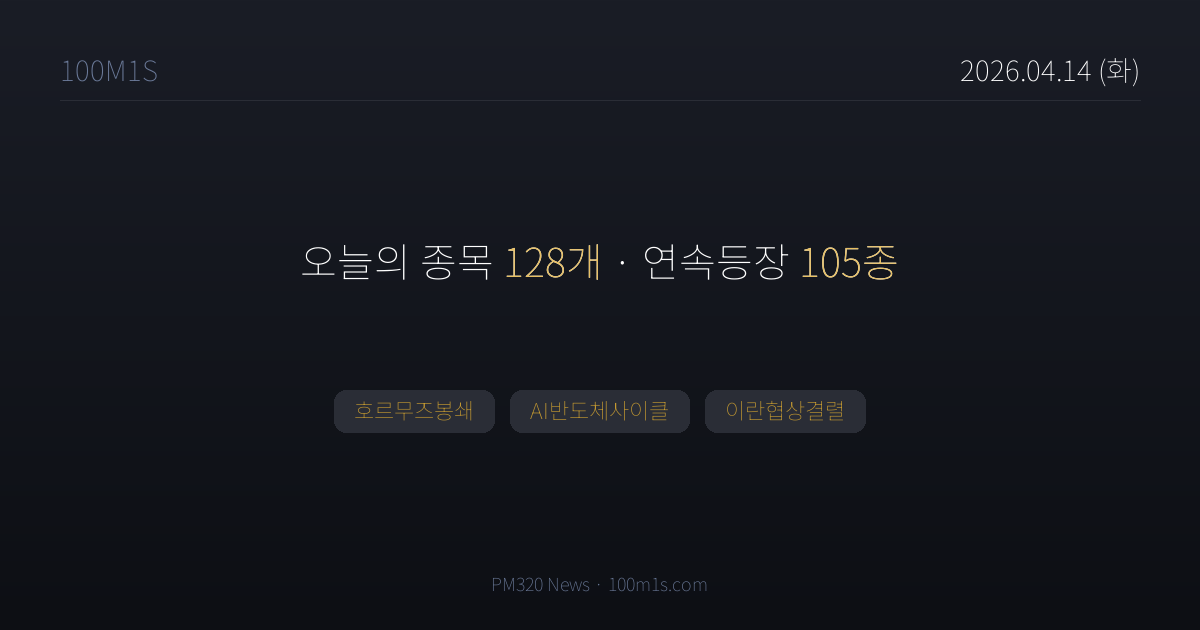
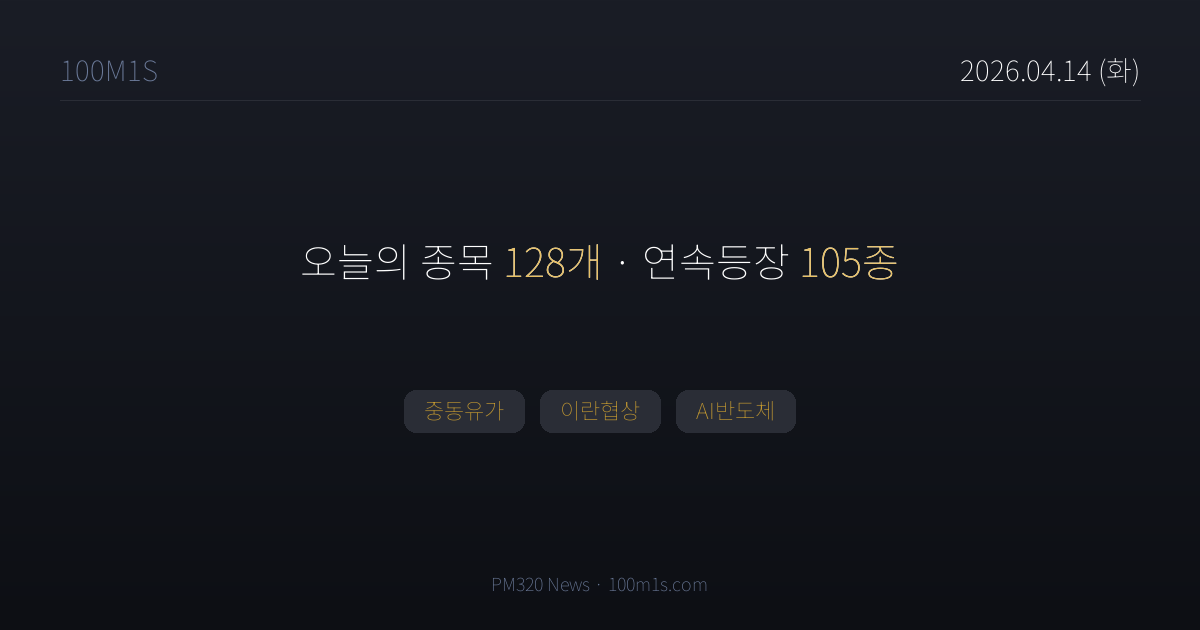
chore(news): 2026-04-14T06:55 pipeline

Changed region(s): [[0.2775, 0.6032, 0.74, 0.6937]]

diff --git a/news/2026-04-14.html b/news/2026-04-14.html
@@ -4,7 +4,7 @@
 <meta charset="UTF-8">
 <title>4월 14일 (화) 뉴스 — 100M1S</title>
 <meta property="og:title" content="4월 14일 (화) · 종목 128개">
-<meta property="og:description" content="호르무즈봉쇄, AI반도체사이클, 이란협상결렬">
+<meta property="og:description" content="중동유가, 이란협상, AI반도체">
 <meta property="og:image" content="https://100m1s.com/og/2026-04-14.png">
 <meta property="og:image:width" content="1200">
 <meta property="og:image:height" content="630">
